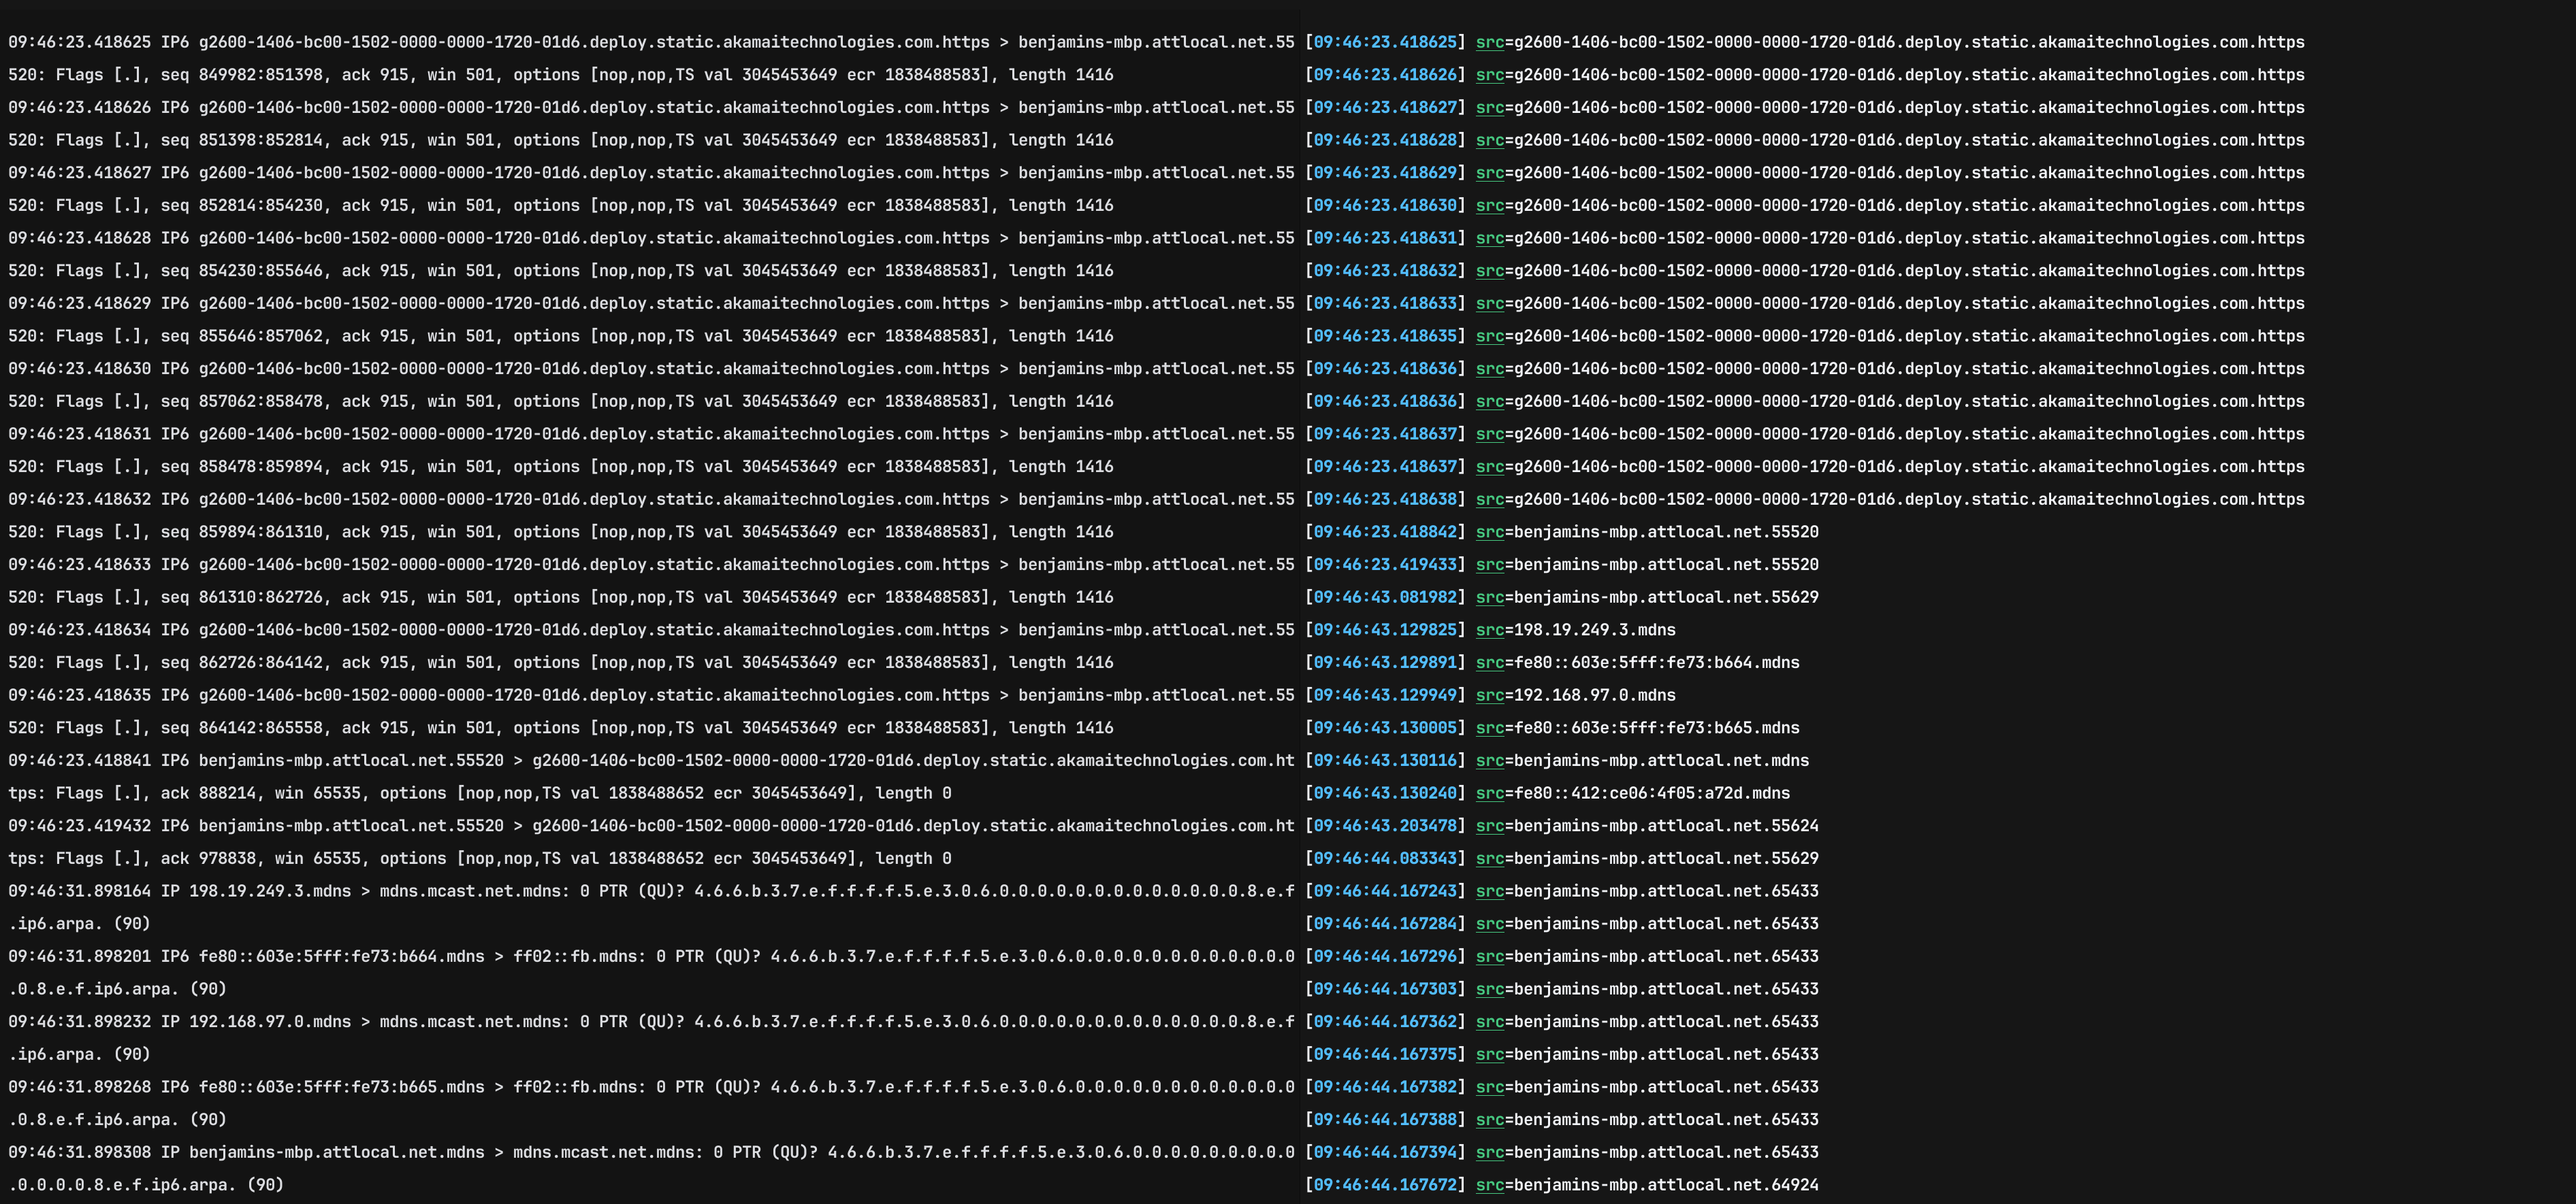
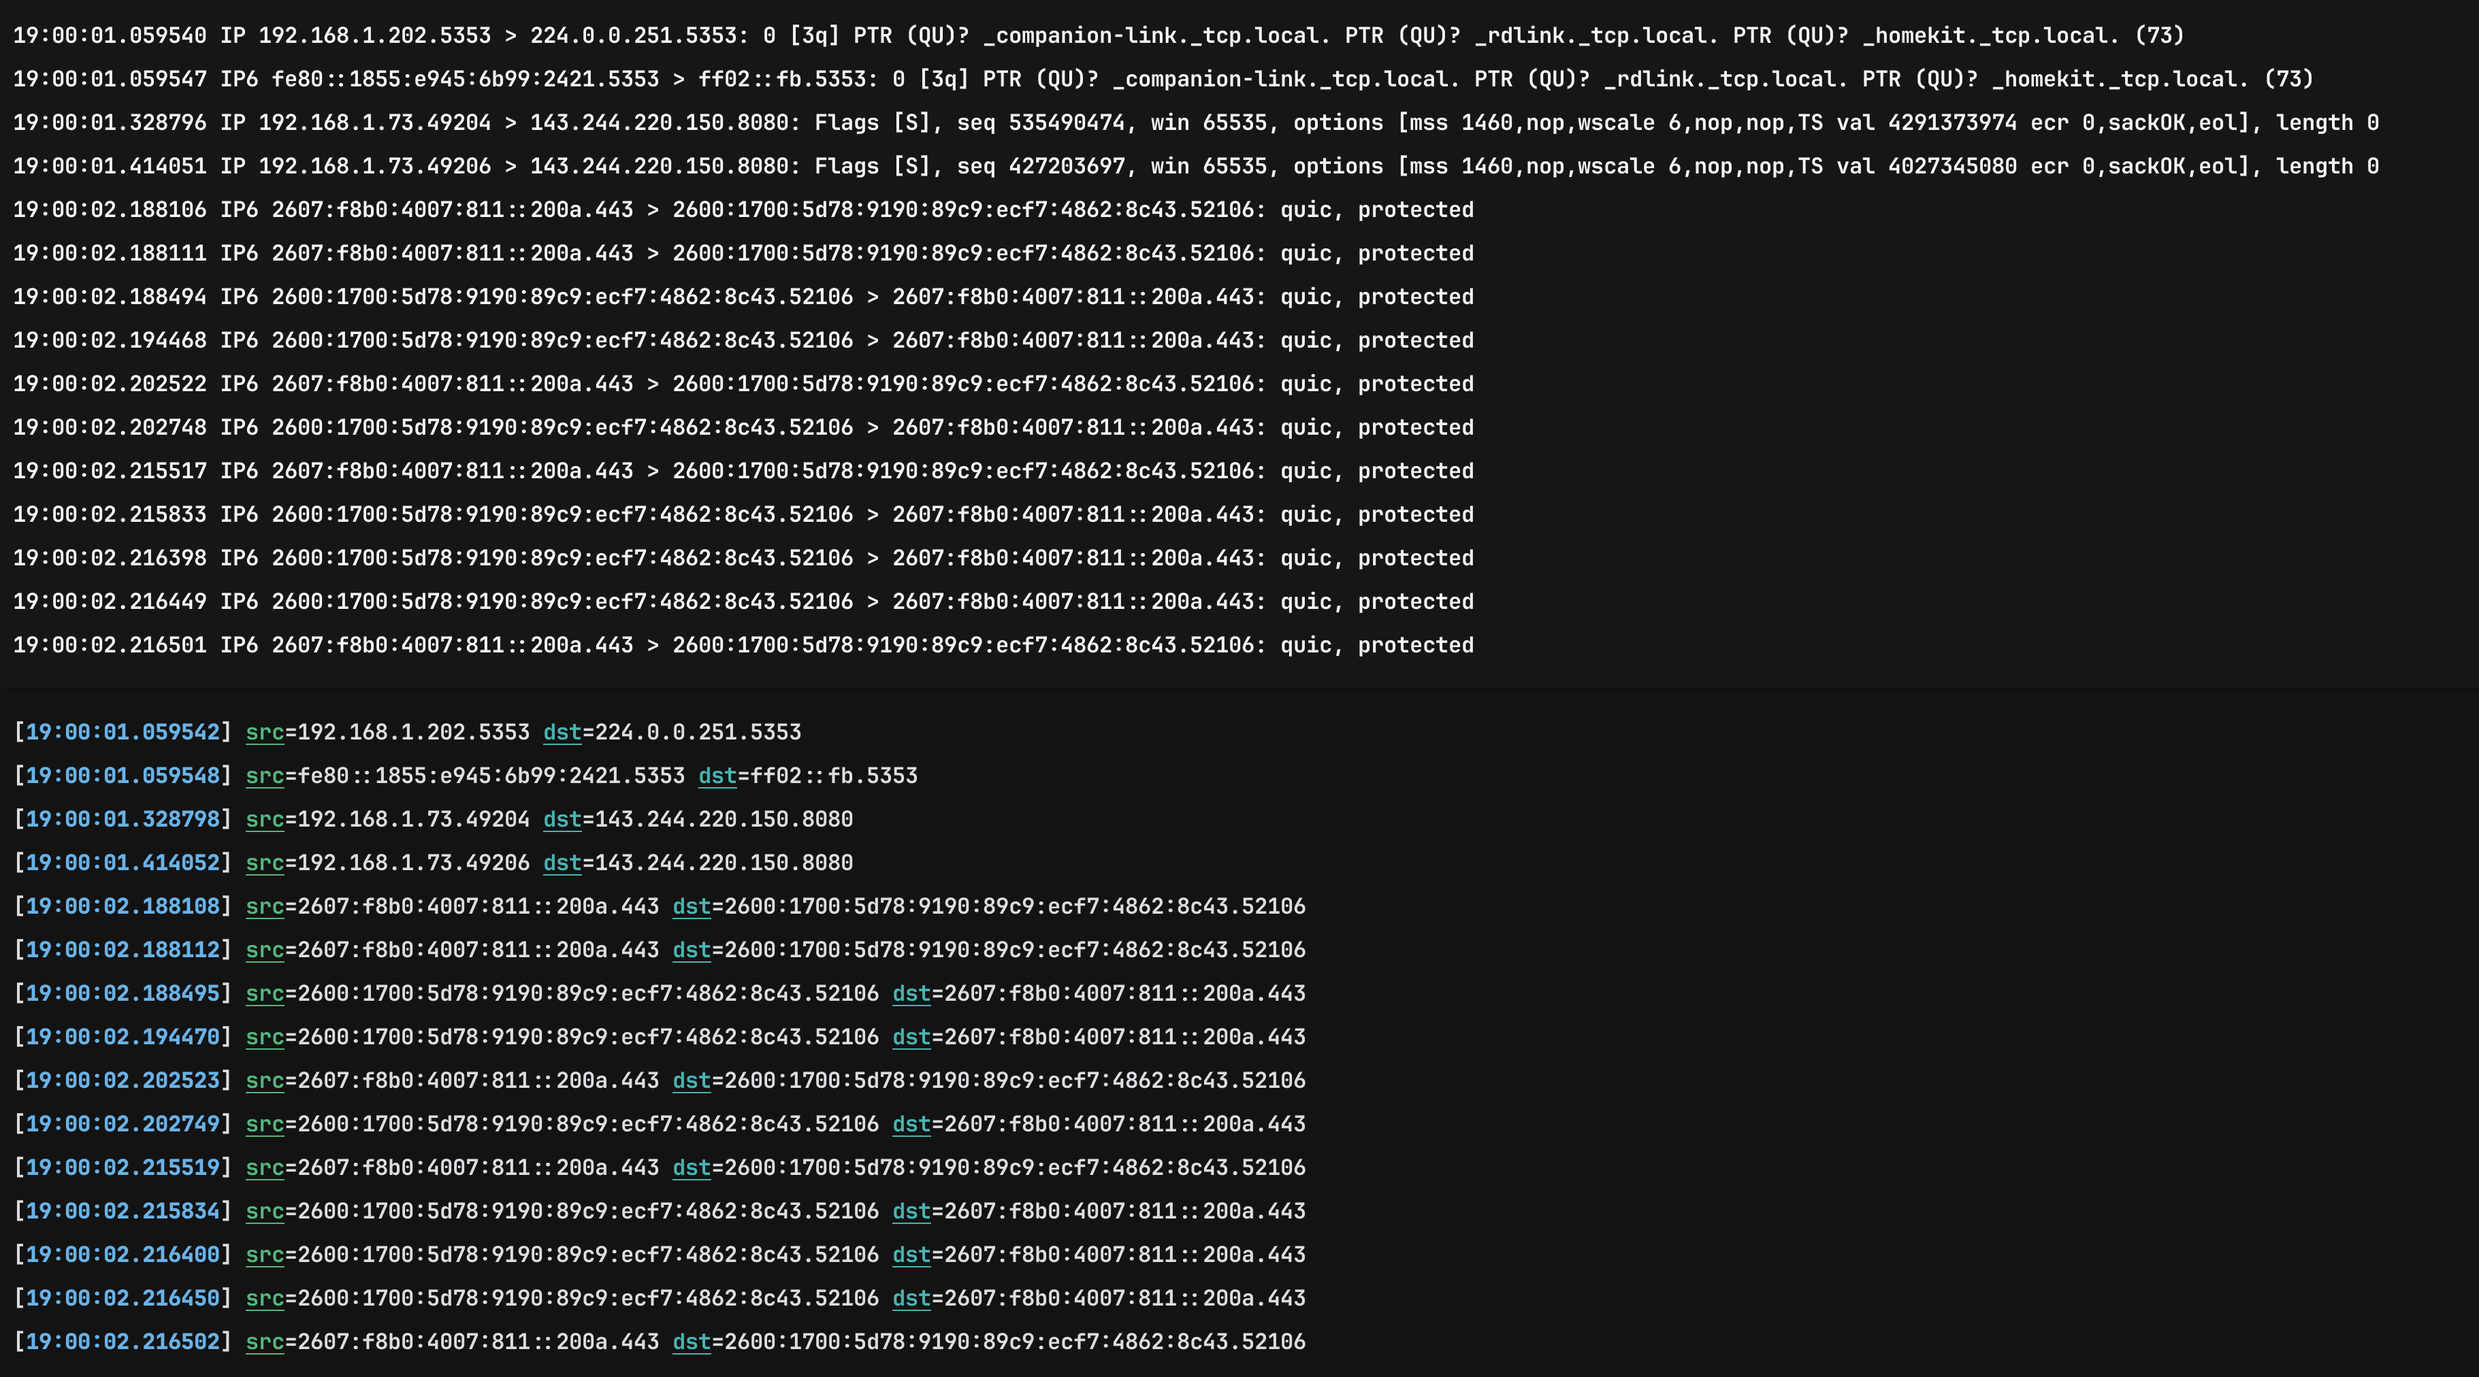
docs: readme update (#9)

Changed region(s): [[0.0, 0.0, 0.9618, 0.9944]]

diff --git a/README.md b/README.md
@@ -4,21 +4,21 @@
 [![Crates.io](https://img.shields.io/crates/v/grits.svg)](https://crates.io/crates/grits)
 [![Crates.io](https://img.shields.io/crates/d/grits)](https://crates.io/crates/grits)
 
-`grits` is a minimal, simple, easy-to-use line text-processor that applies regular expressions with named captures to input lines
+`grits` is a minimal, simple, and easy-to-use line text-processor that applies regular expressions with named captures to input lines
 and transforms them using a custom template string. It allows for efficient parsing, extracting, and formatting of text,
 including support for colorization and other attributes you'd get using ANSI escape sequences.
 
-The following example demonstrates how to apply `grits` to `tcpdump` to extract a packet's source IP address:
+The following example demonstrates how to apply `grits` to `tcpdump` to extract a packet's source (`src`) and destination (`dst`) IP address:
 
 ```bash
-tcpdump | grits -p '^(?<ts>[^ ]+)' \
+sudo tcpdump -nn | grits -p '^(?<ts>[^ ]+)' \
   -p 'IP\w? (?<src>[^ ]+)' \
-  -t '[${(cyan|bold):ts}] ${(green|underlined):"src"}=${src || "NOMATCH"}'
-
+  -p '> (?<dst>[^ ]+):' \
+  -t '[${(cyan|bold):ts}] ${(green|underlined):"src"}=${src} ${(yellow|underlined):"dst"}=${dst}'
 ```
 
 ![demo image](images/demo.png)
-The left pane in the above screenshot is the raw output of `tcpdump` while the right pane shows the output being piped into `grits`.
+The top pane in the above screenshot is the raw output of `tcpdump` while the bottom pane shows the output being piped into `grits`.
 
 ## Table of Contents
 
@@ -49,7 +49,8 @@ Arguments:
 Options:
   -p, --pattern <PATTERN>          A regular expression with named captures. Can be specified multiple times
   -t, --template <TEMPLATE>        A template string that defines how to transform a line input. See long '--help'
-      --line-buffered              Force output to be line-buffered.  By default, output is line buffered when stdout is a terminal and block-buffered otherwise
+  -r, --require <REQUIRE>          Name of capture that must have at least one match for the output to show. Can be specified multiple times
+      --line-buffered              Force output to be line-buffered. By default, output is line buffered when stdout is a terminal and block-buffered otherwise
   -c, --completions <COMPLETIONS>  Produce completions for shell and exit [possible values: bash, elvish, fish, powershell, zsh]
   -h, --help                       Print help (see more with '--help')
   -V, --version                    Print version
@@ -68,13 +69,13 @@ cargo install grits
 ### cURL
 
 ```bash
-curl --proto '=https' --tlsv1.2 -LsSf https://github.com/solidiquis/grits/releases/download/v0.1.0/grits-installer.sh | sh
+curl --proto '=https' --tlsv1.2 -LsSf https://github.com/solidiquis/grits/releases/download/v0.2.0/grits-installer.sh | sh
 ```
 
 ### Powershell
 
 ```bash
-powershell -ExecutionPolicy Bypass -c "irm https://github.com/solidiquis/grits/releases/download/v0.1.0/grits-installer.ps1 | iex"
+powershell -ExecutionPolicy Bypass -c "irm https://github.com/solidiquis/grits/releases/download/v0.2.0/grits-installer.ps1 | iex"
 ```
 
 ### Manual installation
@@ -94,7 +95,7 @@ echo 'level=info msg=foobar path=/baz' | grit -p 'msg=(?<log>[^ ]+)' -o 'transfo
 ```
 
 In this command, we use a regular expression to capture the value associated with the msg field.
-The capture group is named log. The template string `transformed=${log}` will replace `${log}` with
+The capture group is named `log`. The template string `transformed=${log}` will replace `${log}` with
 the value captured from the input. The output will then be:
 
 ```
